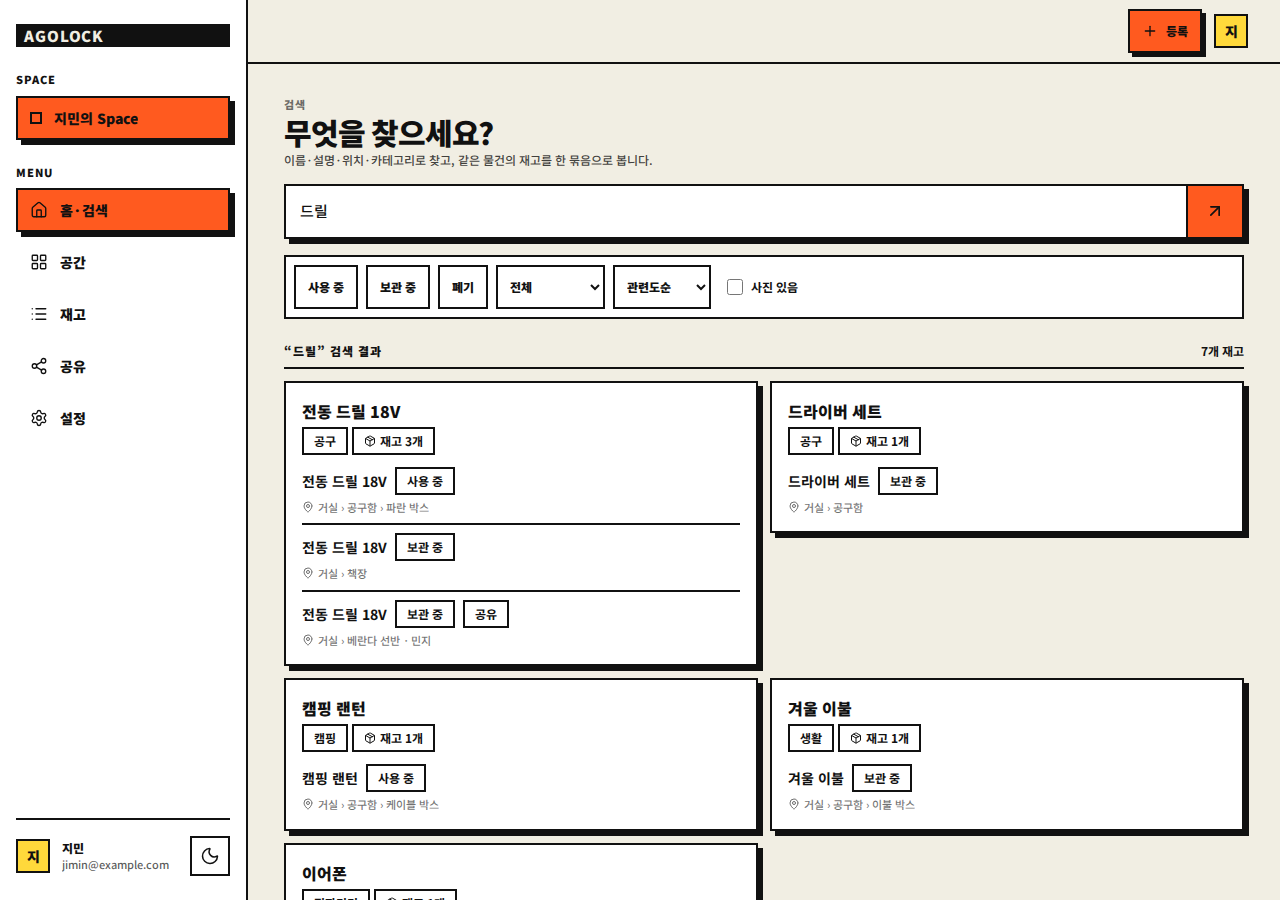
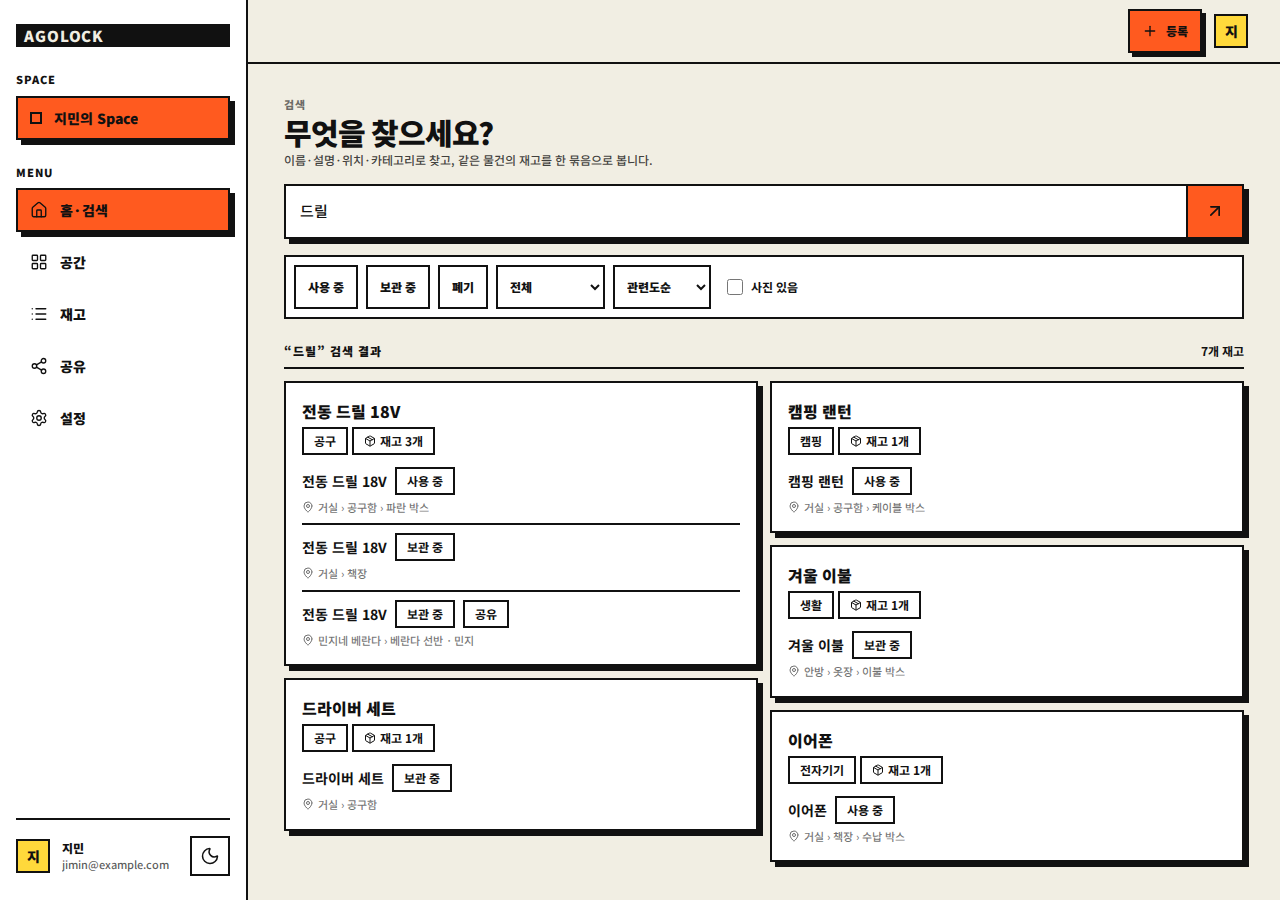
docs(design): refresh final review and search layout notes
Record masonry search results, toast exit behavior, and the final desktop search capture.

diff --git a/docs/implementation/PLAN-012-microinteractions.md b/docs/implementation/PLAN-012-microinteractions.md
@@ -25,7 +25,7 @@ P0·P1에서 등록·재고·공유·검색 화면이 빠르게 늘어나면서 
 - 컨트롤 높이를 `44px(보조) / 48px(기본) / 56px(FAB)`로 고정했습니다.
 - 페이지 루트는 `gap-6`(24px), 카드 본문은 `p-4`(16px)로 통일했습니다.
 - 편집·카테고리 폼은 데스크톱 `max-w-2xl`(672px)로 제한했습니다.
-- 검색 필터는 44px 컨트롤을 담은 테두리 툴바로 묶고, 데스크톱 결과는 2열로 배치했습니다.
+- 검색 필터는 44px 컨트롤을 담은 테두리 툴바로 묶고, 데스크톱 결과는 masonry 2열로 배치했습니다.
 - FAB는 홈·공간·재고 목록에만 표시합니다. 검색·공유·설정·카테고리·상세·편집에서는 숨깁니다.
 - 재고 상세의 상태·위치·관리 카드를 이동 이력보다 위에 배치해 모바일 동작 우선순위를 맞췄습니다.
 - 이미지가 1장일 때 갤러리 카드를 4:3 대형 이미지로 키우고, Room·Shelf 상세의 “공유” 버튼을 헤더 우측으로 옮겼습니다.
@@ -72,7 +72,7 @@ P0·P1에서 등록·재고·공유·검색 화면이 빠르게 늘어나면서 
 
 ## 6. 남은 작업
 
-- 토스트 퇴장 애니메이션은 Radix가 닫힌 콘텐츠를 즉시 언마운트해 현재 등장만 적용됩니다. 퇴장까지 필요하면 `forceMount`와 Presence 조합을 검토합니다.
+- 토스트 퇴장은 controlled `open`과 `forceMount`로 120ms `toast-out`을 재생한 뒤 제거합니다.
 - 업로드 진행률, AI 분석 단계 표시, View Transitions, Undo, 햅틱·사운드는 P2입니다.
-- 데스크톱 검색 2열은 카드 높이 차이로 빈 공간이 생길 수 있어 masonry/단일 열을 사용성 테스트로 결정합니다.
+- 데스크톱 검색 masonry는 빈 공간을 줄이지만 읽기 순서가 열 기준이 되므로 실제 사용성 테스트로 확인합니다.
 - 실제 스크린리더(NVDA+Chrome, VoiceOver+Safari)와 200% 확대 검증은 M8 접근성 점검에서 수행합니다.

diff --git a/design/review/2026-10-23/README.md b/design/review/2026-10-23/README.md
@@ -27,7 +27,7 @@ Playwright로 현재 프론트엔드를 390×844(모바일), 1280×900(데스크
 - 36px·28px로 섞여 있던 보조 버튼·필터·닫기 버튼을 44px로, 기본 버튼·입력을 48px로, FAB를 56px로 통일했습니다.
 - 페이지 루트 간격을 24px, 카드 본문 패딩을 16px로 통일했습니다.
 - 데스크톱 편집 폼을 672px로 제한하고, 검색 필터를 하나의 테두리 툴바로 묶었습니다.
-- 검색 결과를 데스크톱 2열로 배치하고, 결과 카드의 장식용 검색 아이콘을 제거했습니다.
+- 검색 결과를 데스크톱 masonry 2열로 배치하고, 결과 카드의 장식용 검색 아이콘을 제거했습니다.
 - 검색·공유·설정·카테고리 화면에서 FAB를 숨겼습니다.
 - 재고 상세의 상태·위치·관리 카드를 이동 이력보다 위로 옮겨 모바일 동작 우선순위를 맞췄습니다.
 - 카테고리 행의 액션을 모바일에서 44px 아이콘 버튼으로 표시해 줄바꿈을 없앴습니다.
@@ -37,8 +37,8 @@ Playwright로 현재 프론트엔드를 390×844(모바일), 1280×900(데스크
 
 ## 검토에서 남긴 것
 
-- 데스크톱 검색 결과 2열은 카드 높이가 다르면 오른쪽에 빈 공간이 생깁니다. masonry 또는 단일 열 중 사용성 테스트로 결정합니다.
-- 토스트 퇴장 애니메이션은 Radix가 닫힌 콘텐츠를 즉시 언마운트해 현재 등장만 적용됩니다.
+- 데스크톱 검색 masonry는 빈 공간을 줄이지만 읽기 순서가 열 기준이 되므로 사용성 테스트가 필요합니다.
+- 토스트 퇴장은 120ms `toast-out`으로 처리하고, 닫힌 뒤 DOM에서 제거합니다.
 
 ## 검증
 
